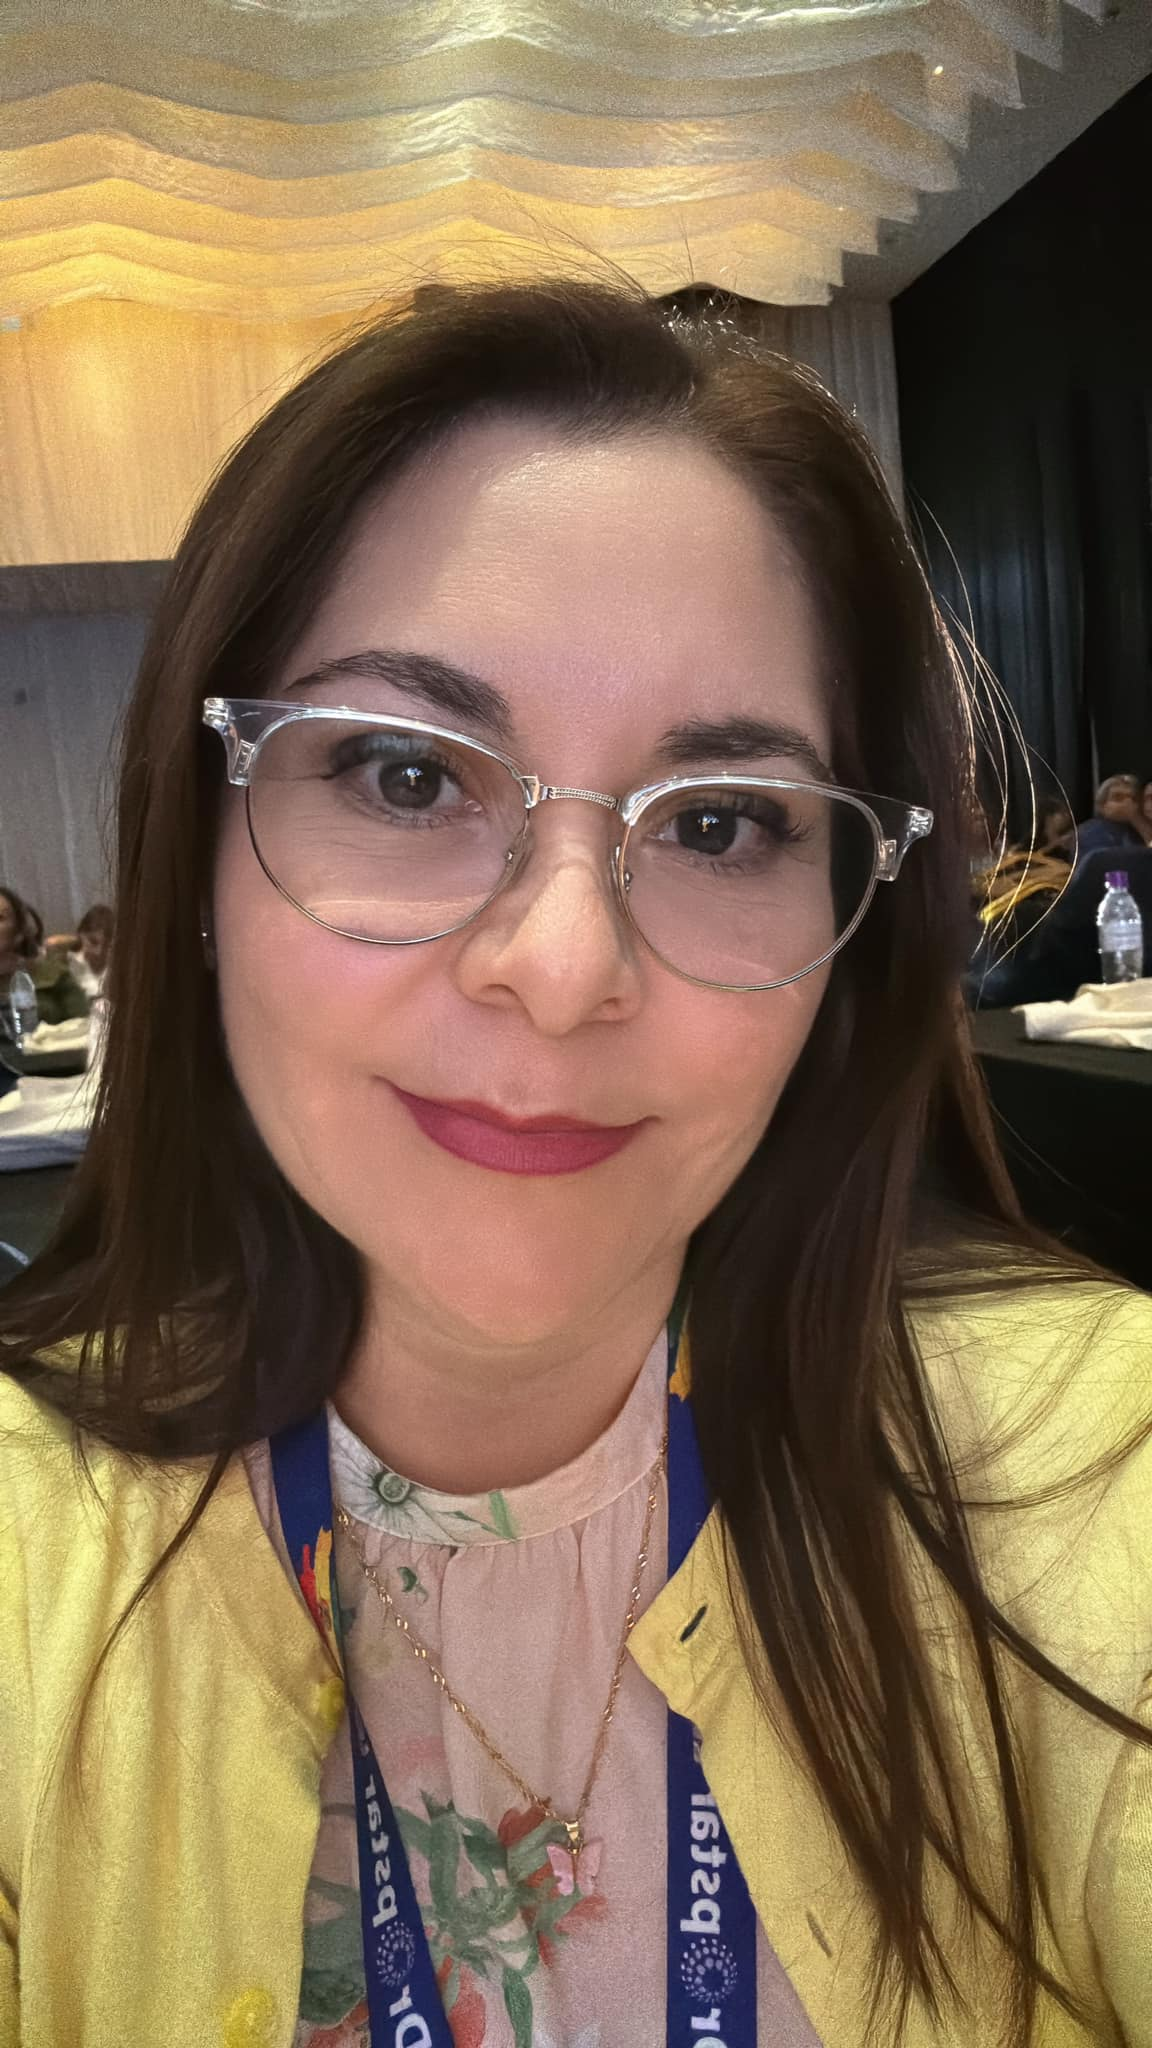
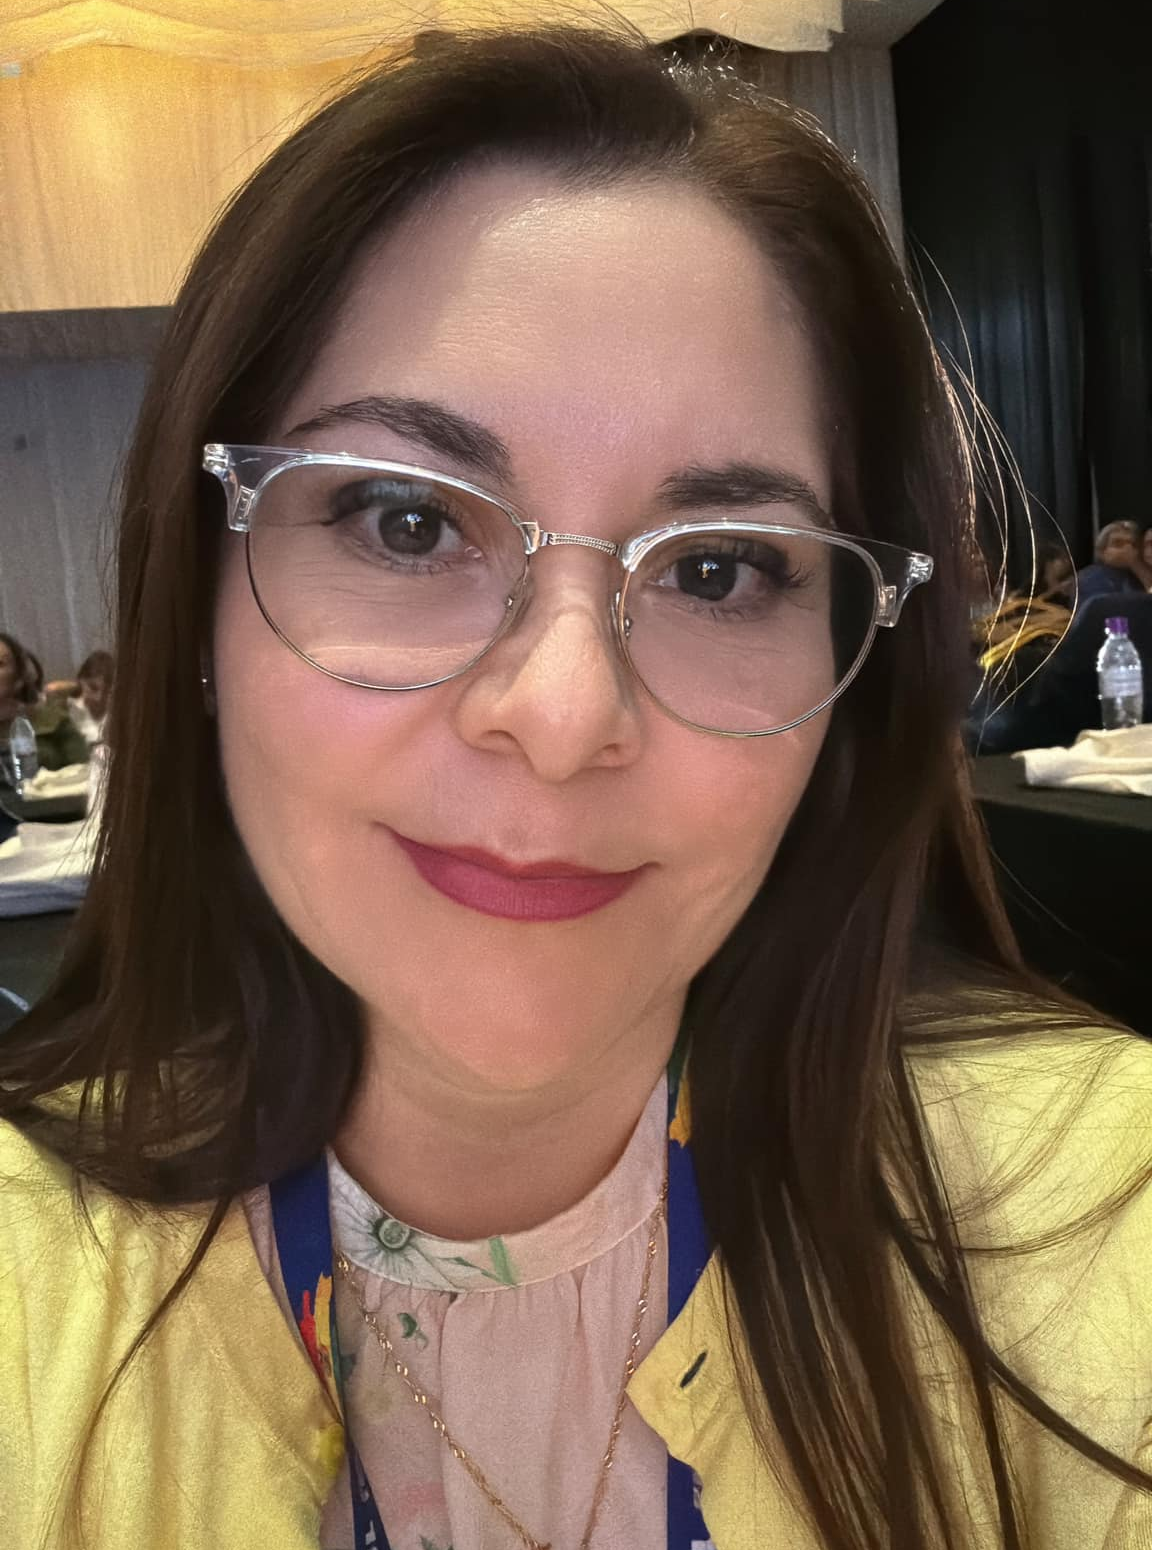
Fix details in home

diff --git a/src/sass/home_page/_hero.scss b/src/sass/home_page/_hero.scss
@@ -18,7 +18,7 @@
 
   &-item__img {
     width: 100%;
-    height: 650px;
+    height: 550px;
     object-fit: cover;
     filter: brightness(80%) grayscale(30%);
     transition: opacity 500ms ease-out;

diff --git a/src/sass/home_page/_blog-content.scss b/src/sass/home_page/_blog-content.scss
@@ -3,6 +3,8 @@
 .blog {
   @include center-self(horizontal);
   width: var(--page-width);
+  padding-left: 10%;
+  padding-right: 10%;
   overflow-x: hidden;
 
   &__section-title {
